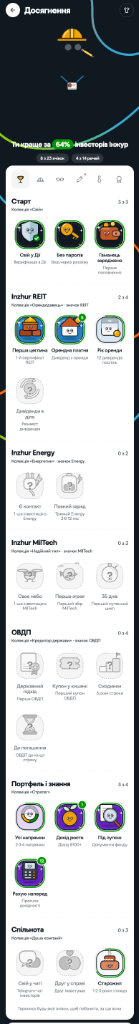
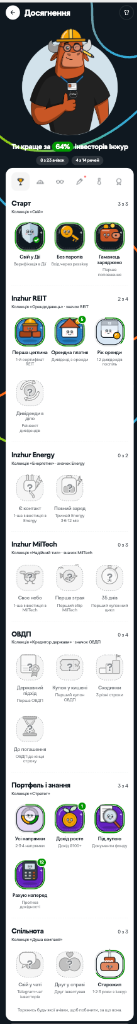
Slide 11: Replace achievements screen with bull mascot & place proposals in To-Be panel

diff --git a/index.html b/index.html
@@ -685,11 +685,14 @@ const SLIDES = [
   {
     "tag": "Гейміфікація",
     "title": "Гейміфікація досвіду інвестора",
+    "shotPlacement": "idea",
+    "problemLabel": "Як зараз (As-Is)",
+    "ideaLabel": "Пропозиція (To-Be)",
     "images": [
       {
         "url": "images/shot_inzhur_achievements_list.png",
         "label": "1. Каталог ачівок",
-        "caption": "1. Пропозиція: екран «Досягнення» в Inzhur із колекціями (Старт, REIT, Energy, MilTech, ОВДП, Знання, Спільнота)",
+        "caption": "1. Пропозиція: екран «Досягнення» в Inzhur із маскотом-биком та колекціями ачівок",
         "pos": "top center"
       },
       {
@@ -716,7 +719,6 @@ const SLIDES = [
       "Між щомісячними виплатами дивідендів у інвестора <strong>немає тригерів заходити в застосунок</strong>",
       "Відсутнє відчуття <strong>ігрового прогресу та персональних досягнень</strong> на шляху до накопичення капіталу"
     ],
-    "ideaLabel": "Пропозиція · Концепт гейміфікації Inzhur",
     "idea": [
       "<strong>Каталог досягнень за колекціями:</strong> тематичні набори («Старт», «Inzhur REIT», «Energy», «MilTech», «ОВДП», «Портфель і знання», «Спільнота»)",
       "<strong>«Шлях інвестора» для кожного фонду:</strong> лінійний прогрес із титулами (наприклад, <em>«Перша цеглина» → «Орендна платня» → «Рік оренди» → «Дивіденди в діло»</em>)",
@@ -854,14 +856,15 @@ SLIDES.forEach((s, i) => {
       <h2>${s.title}</h2>
       <div class="compare">
         <div class="panel problem">
-          <div class="label">Як зараз</div>
-          ${shotHTML}
+          <div class="label">${s.problemLabel || 'Як зараз'}</div>
+          ${s.shotPlacement !== 'idea' ? shotHTML : ''}
           ${chips}
           ${listHTML(s.problem, 'problem', 0.20)}
         </div>
         <div class="arrow">→</div>
         <div class="panel idea">
           <div class="label">${s.ideaLabel || 'Ідея'}</div>
+          ${s.shotPlacement === 'idea' ? shotHTML : ''}
           ${listHTML(s.idea, 'idea', 0.45)}
         </div>
       </div>`;

diff --git a/presentation.html b/presentation.html
@@ -685,11 +685,14 @@ const SLIDES = [
   {
     "tag": "Гейміфікація",
     "title": "Гейміфікація досвіду інвестора",
+    "shotPlacement": "idea",
+    "problemLabel": "Як зараз (As-Is)",
+    "ideaLabel": "Пропозиція (To-Be)",
     "images": [
       {
         "url": "images/shot_inzhur_achievements_list.png",
         "label": "1. Каталог ачівок",
-        "caption": "1. Пропозиція: екран «Досягнення» в Inzhur із колекціями (Старт, REIT, Energy, MilTech, ОВДП, Знання, Спільнота)",
+        "caption": "1. Пропозиція: екран «Досягнення» в Inzhur із маскотом-биком та колекціями ачівок",
         "pos": "top center"
       },
       {
@@ -716,7 +719,6 @@ const SLIDES = [
       "Між щомісячними виплатами дивідендів у інвестора <strong>немає тригерів заходити в застосунок</strong>",
       "Відсутнє відчуття <strong>ігрового прогресу та персональних досягнень</strong> на шляху до накопичення капіталу"
     ],
-    "ideaLabel": "Пропозиція · Концепт гейміфікації Inzhur",
     "idea": [
       "<strong>Каталог досягнень за колекціями:</strong> тематичні набори («Старт», «Inzhur REIT», «Energy», «MilTech», «ОВДП», «Портфель і знання», «Спільнота»)",
       "<strong>«Шлях інвестора» для кожного фонду:</strong> лінійний прогрес із титулами (наприклад, <em>«Перша цеглина» → «Орендна платня» → «Рік оренди» → «Дивіденди в діло»</em>)",
@@ -854,14 +856,15 @@ SLIDES.forEach((s, i) => {
       <h2>${s.title}</h2>
       <div class="compare">
         <div class="panel problem">
-          <div class="label">Як зараз</div>
-          ${shotHTML}
+          <div class="label">${s.problemLabel || 'Як зараз'}</div>
+          ${s.shotPlacement !== 'idea' ? shotHTML : ''}
           ${chips}
           ${listHTML(s.problem, 'problem', 0.20)}
         </div>
         <div class="arrow">→</div>
         <div class="panel idea">
           <div class="label">${s.ideaLabel || 'Ідея'}</div>
+          ${s.shotPlacement === 'idea' ? shotHTML : ''}
           ${listHTML(s.idea, 'idea', 0.45)}
         </div>
       </div>`;
